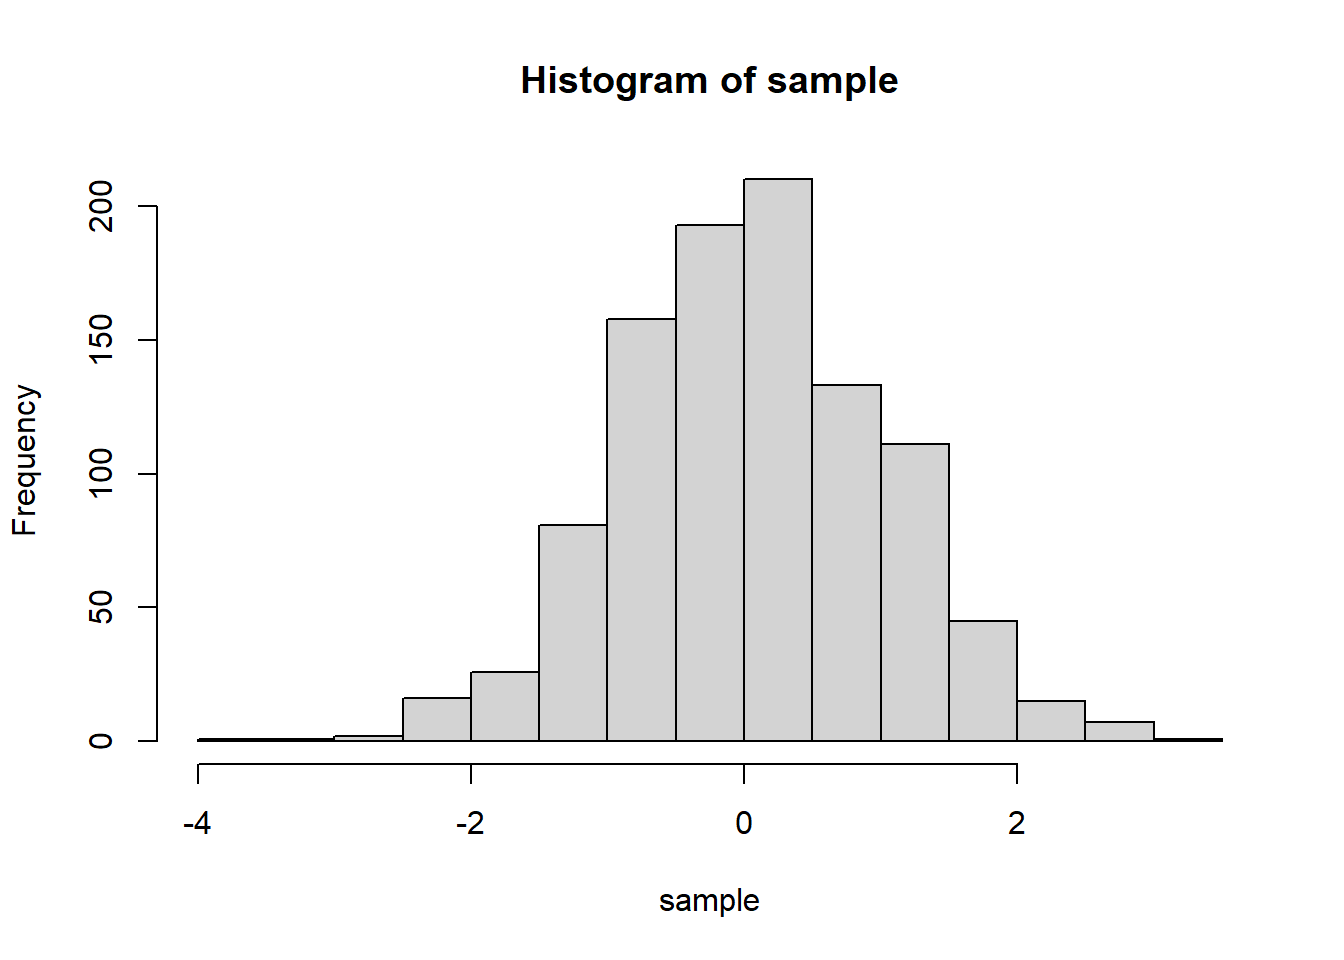
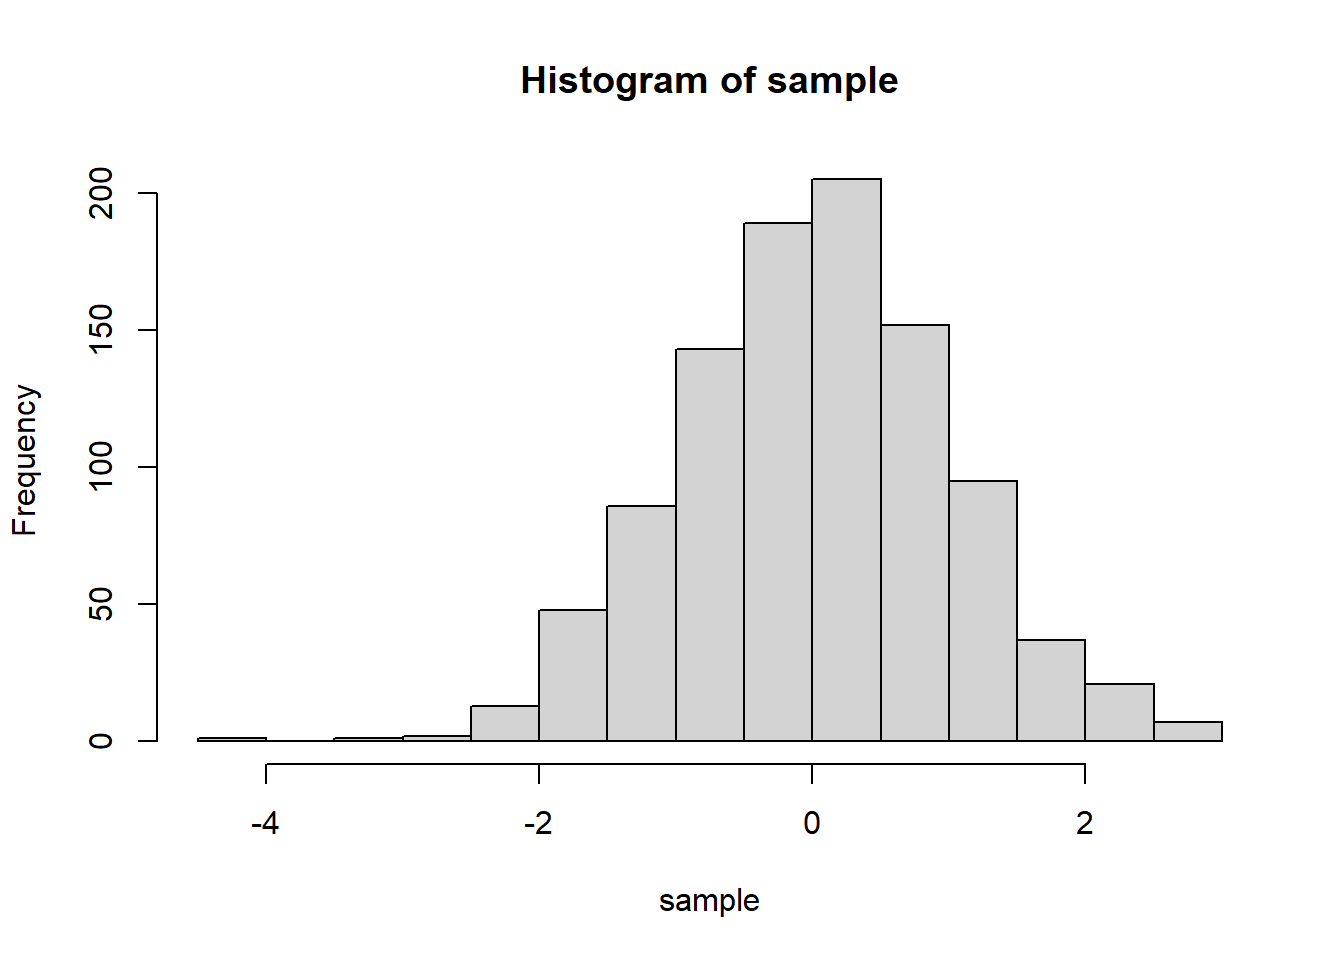
Add files via upload

diff --git a/docs/posts/03/index.html b/docs/posts/03/index.html
@@ -254,10 +254,10 @@ window.Quarto = {
 <div class="my-table">
 <table class="table">
 <colgroup>
-<col style="width: 21%">
-<col style="width: 34%">
-<col style="width: 21%">
-<col style="width: 21%">
+<col style="width: 22%">
+<col style="width: 31%">
+<col style="width: 22%">
+<col style="width: 22%">
 </colgroup>
 <thead>
 <tr class="header">
@@ -376,7 +376,7 @@ window.Quarto = {
 <div class="sourceCode cell-code" id="cb15"><pre class="sourceCode r code-with-copy"><code class="sourceCode r"><span id="cb15-1"><a href="#cb15-1" aria-hidden="true" tabindex="-1"></a><span class="co"># rnorm() : random number from normal distribution</span></span>
 <span id="cb15-2"><a href="#cb15-2" aria-hidden="true" tabindex="-1"></a><span class="fu">rnorm</span>(<span class="dv">5</span>, <span class="at">mean =</span> <span class="dv">0</span>, <span class="at">sd =</span> <span class="dv">1</span>)  <span class="co"># 평균이 0이고 표준편차가 1인 정규분포에서 5개의 무작위 값 생성</span></span></code><button title="Copy to Clipboard" class="code-copy-button"><i class="bi"></i></button></pre></div>
 <div class="cell-output cell-output-stdout">
-<pre><code>[1] -0.3897011  2.2140236 -0.7737791  0.7699518 -0.1126608</code></pre>
+<pre><code>[1] -0.4684660 -0.5944207 -0.5054862 -1.3784119 -1.3616232</code></pre>
 </div>
 </div>
 <p>연속확률분포에서 특정한 지점에서의 확률은 수학적으로 생각하면 선의 넓이이므로 0이다. 그런데 dnorm에서 구하는 값은 0이 나오지 않는데, 이는 아주 작은 크기의 직사각형을 만들어 면적을 계산하여 도출한다고 생각하면 된다. 직관적으로 그 점에서의 높이를 계산한다고 생각하면 된다.</p>
@@ -479,16 +479,45 @@ window.Quarto = {
 <section id="정규확률그림으로-확인하는-방법" class="level3">
 <h3 class="anchored" data-anchor-id="정규확률그림으로-확인하는-방법">정규확률그림으로 확인하는 방법</h3>
 <ul>
-<li>어떤 자료가 정규분포에 얼마나 근접한지 알고 싶으면 Q-Q(Quantile-Quantile) plot을 그려본다. Q-Q plot에서 직선은 정확한 정규분포 수식에서 나오는 값인데, 관찰값인 점들이 직선에서 크게 벗어나지 않으면 자료가 정규분포를 따른다고 할 수 있다.</li>
+<li><p>어떤 자료가 정규분포에 얼마나 근접한지 알고 싶으면 Q-Q(Quantile-Quantile) plot을 그려본다. Q-Q plot에서 직선은 정확한 정규분포 수식에서 나오는 값인데, 관찰값인 점들이 직선에서 크게 벗어나지 않으면 자료가 정규분포를 따른다고 할 수 있다.</p></li>
+<li><p>MASS 라이브러리에 있는 Cars93의 price라는 자료가 정규분포인지 확인해보자.</p></li>
 </ul>
 <div class="cell">
-<div class="sourceCode cell-code" id="cb26"><pre class="sourceCode r code-with-copy"><code class="sourceCode r"><span id="cb26-1"><a href="#cb26-1" aria-hidden="true" tabindex="-1"></a>body <span class="ot">&lt;-</span> <span class="fu">read.table</span>(<span class="st">"BodyWeight.txt"</span>, <span class="at">header=</span>T)</span>
-<span id="cb26-2"><a href="#cb26-2" aria-hidden="true" tabindex="-1"></a><span class="fu">qqnorm</span>(body<span class="sc">$</span>몸무게)</span>
-<span id="cb26-3"><a href="#cb26-3" aria-hidden="true" tabindex="-1"></a><span class="fu">qqline</span>(body<span class="sc">$</span>몸무게, <span class="at">col=</span><span class="st">"blue"</span>)</span></code><button title="Copy to Clipboard" class="code-copy-button"><i class="bi"></i></button></pre></div>
+<div class="sourceCode cell-code" id="cb26"><pre class="sourceCode r code-with-copy"><code class="sourceCode r"><span id="cb26-1"><a href="#cb26-1" aria-hidden="true" tabindex="-1"></a><span class="fu">library</span>(MASS)</span>
+<span id="cb26-2"><a href="#cb26-2" aria-hidden="true" tabindex="-1"></a><span class="fu">str</span>(Cars93<span class="sc">$</span>Price)  <span class="co"># 자료의 구조를 살펴보기</span></span></code><button title="Copy to Clipboard" class="code-copy-button"><i class="bi"></i></button></pre></div>
+<div class="cell-output cell-output-stdout">
+<pre><code> num [1:93] 15.9 33.9 29.1 37.7 30 15.7 20.8 23.7 26.3 34.7 ...</code></pre>
+</div>
+<div class="sourceCode cell-code" id="cb28"><pre class="sourceCode r code-with-copy"><code class="sourceCode r"><span id="cb28-1"><a href="#cb28-1" aria-hidden="true" tabindex="-1"></a>price <span class="ot">=</span> Cars93<span class="sc">$</span>Price</span>
+<span id="cb28-2"><a href="#cb28-2" aria-hidden="true" tabindex="-1"></a><span class="fu">hist</span>(price)  <span class="co"># 히스토그램을 그려서 좌우대칭인지 살펴보기</span></span></code><button title="Copy to Clipboard" class="code-copy-button"><i class="bi"></i></button></pre></div>
 <div class="cell-output-display">
 <div>
 <figure class="figure">
 <p><img src="index_files/figure-html/unnamed-chunk-7-1.png" class="img-fluid figure-img" width="672"></p>
+</figure>
+</div>
+</div>
+<div class="sourceCode cell-code" id="cb29"><pre class="sourceCode r code-with-copy"><code class="sourceCode r"><span id="cb29-1"><a href="#cb29-1" aria-hidden="true" tabindex="-1"></a><span class="fu">qqnorm</span>(price)</span>
+<span id="cb29-2"><a href="#cb29-2" aria-hidden="true" tabindex="-1"></a><span class="fu">qqline</span>(price)  <span class="co"># qqnorm으로 그린 그림에 직선을 추가하기</span></span></code><button title="Copy to Clipboard" class="code-copy-button"><i class="bi"></i></button></pre></div>
+<div class="cell-output-display">
+<div>
+<figure class="figure">
+<p><img src="index_files/figure-html/unnamed-chunk-7-2.png" class="img-fluid figure-img" width="672"></p>
+</figure>
+</div>
+</div>
+</div>
+<ul>
+<li>BodyWeight에 있는 자료의 정규확률그림을 그려보자.</li>
+</ul>
+<div class="cell">
+<div class="sourceCode cell-code" id="cb30"><pre class="sourceCode r code-with-copy"><code class="sourceCode r"><span id="cb30-1"><a href="#cb30-1" aria-hidden="true" tabindex="-1"></a>body <span class="ot">&lt;-</span> <span class="fu">read.table</span>(<span class="st">"BodyWeight.txt"</span>, <span class="at">header=</span>T)</span>
+<span id="cb30-2"><a href="#cb30-2" aria-hidden="true" tabindex="-1"></a><span class="fu">qqnorm</span>(body<span class="sc">$</span>몸무게)</span>
+<span id="cb30-3"><a href="#cb30-3" aria-hidden="true" tabindex="-1"></a><span class="fu">qqline</span>(body<span class="sc">$</span>몸무게, <span class="at">col=</span><span class="st">"blue"</span>)</span></code><button title="Copy to Clipboard" class="code-copy-button"><i class="bi"></i></button></pre></div>
+<div class="cell-output-display">
+<div>
+<figure class="figure">
+<p><img src="index_files/figure-html/unnamed-chunk-8-1.png" class="img-fluid figure-img" width="672"></p>
 </figure>
 </div>
 </div>
@@ -497,13 +526,13 @@ window.Quarto = {
 <li>직선에 어느 정도 근접하느냐는 주관적이므로, 위 자료(100개)와 비교해보기 위해 정규분포를 이루는 난수를 발생하여 같은 그래프를 그려보자.</li>
 </ul>
 <div class="cell">
-<div class="sourceCode cell-code" id="cb27"><pre class="sourceCode r code-with-copy"><code class="sourceCode r"><span id="cb27-1"><a href="#cb27-1" aria-hidden="true" tabindex="-1"></a>x <span class="ot">=</span> <span class="fu">rnorm</span>(<span class="at">n=</span><span class="dv">100</span>, <span class="at">mean=</span><span class="dv">0</span>, <span class="at">sd=</span><span class="dv">1</span>) <span class="co">#평균이 0이고, 표준편차가 1인 표준정규분포에서 100개의 난수를 발생하여 x에 넣기</span></span>
-<span id="cb27-2"><a href="#cb27-2" aria-hidden="true" tabindex="-1"></a><span class="fu">qqnorm</span>(x)</span>
-<span id="cb27-3"><a href="#cb27-3" aria-hidden="true" tabindex="-1"></a><span class="fu">qqline</span>(x, <span class="at">col=</span><span class="st">"blue"</span>)</span></code><button title="Copy to Clipboard" class="code-copy-button"><i class="bi"></i></button></pre></div>
+<div class="sourceCode cell-code" id="cb31"><pre class="sourceCode r code-with-copy"><code class="sourceCode r"><span id="cb31-1"><a href="#cb31-1" aria-hidden="true" tabindex="-1"></a>x <span class="ot">=</span> <span class="fu">rnorm</span>(<span class="at">n=</span><span class="dv">100</span>, <span class="at">mean=</span><span class="dv">0</span>, <span class="at">sd=</span><span class="dv">1</span>) <span class="co">#평균이 0이고, 표준편차가 1인 표준정규분포에서 100개의 난수를 발생하여 x에 넣기</span></span>
+<span id="cb31-2"><a href="#cb31-2" aria-hidden="true" tabindex="-1"></a><span class="fu">qqnorm</span>(x)</span>
+<span id="cb31-3"><a href="#cb31-3" aria-hidden="true" tabindex="-1"></a><span class="fu">qqline</span>(x, <span class="at">col=</span><span class="st">"blue"</span>)</span></code><button title="Copy to Clipboard" class="code-copy-button"><i class="bi"></i></button></pre></div>
 <div class="cell-output-display">
 <div>
 <figure class="figure">
-<p><img src="index_files/figure-html/unnamed-chunk-8-1.png" class="img-fluid figure-img" width="672"></p>
+<p><img src="index_files/figure-html/unnamed-chunk-9-1.png" class="img-fluid figure-img" width="672"></p>
 </figure>
 </div>
 </div>
